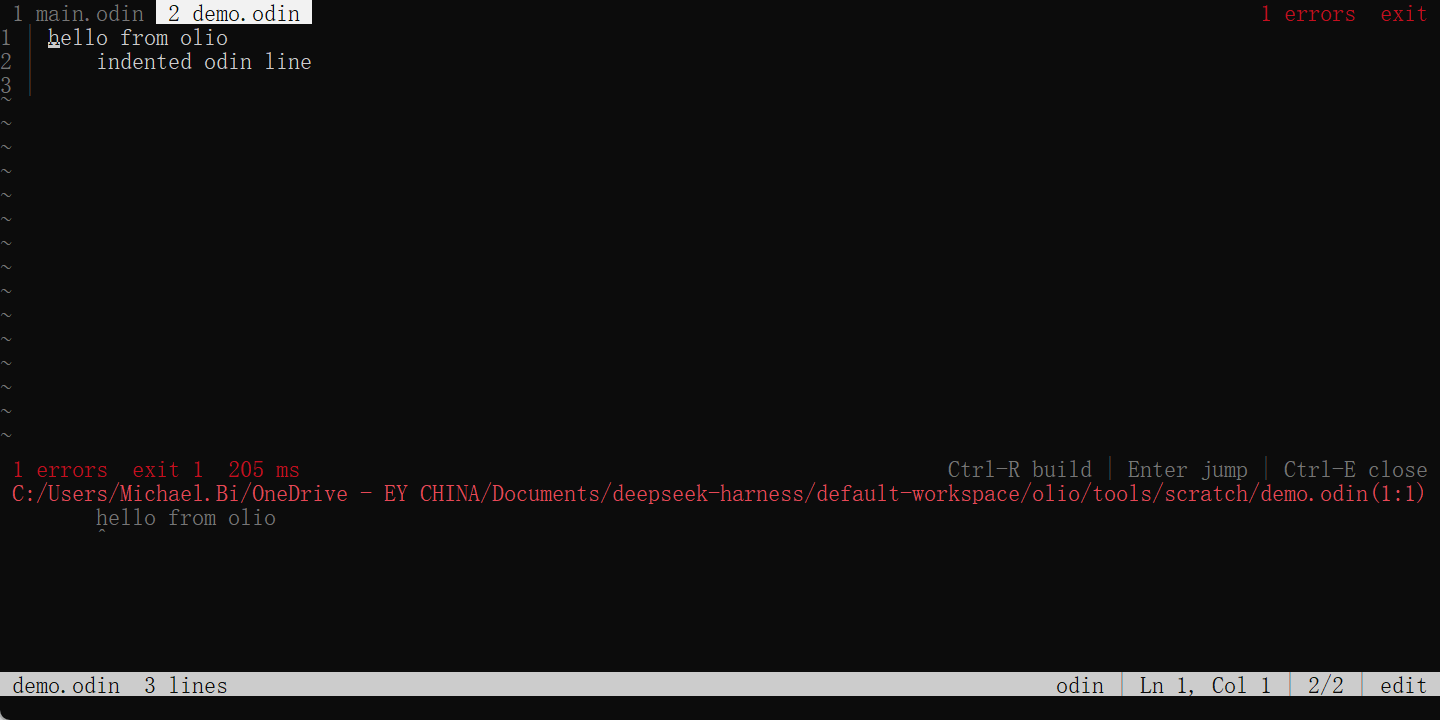
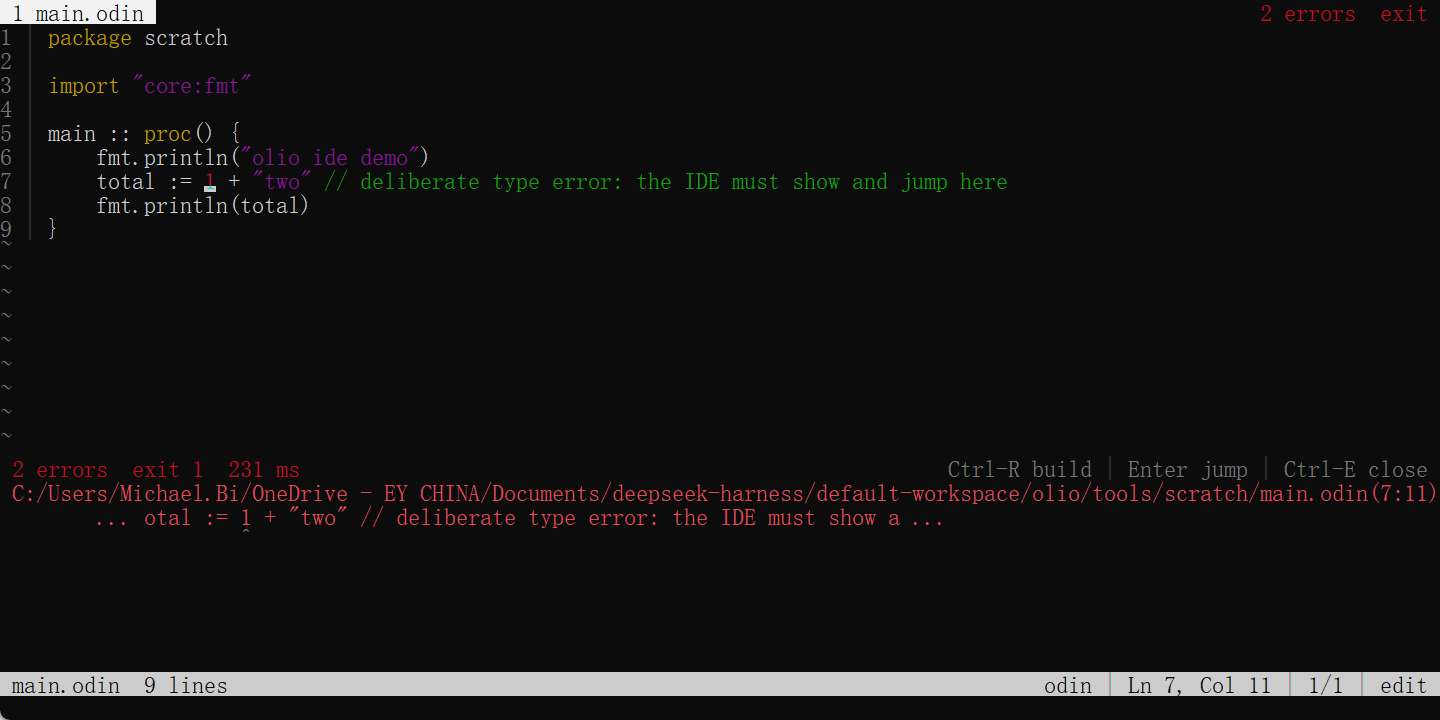
Fix quit counter reset, pluralise build status, harden the UI driver

diff --git a/tools/drive_ide.py b/tools/drive_ide.py
@@ -70,9 +70,9 @@ def tap(vk):
 def ctrl(ch):
     scan = u32.MapVirtualKeyW(VK_CONTROL, 0)
     u32.keybd_event(VK_CONTROL, scan, 0, 0)
-    time.sleep(0.05)
+    time.sleep(0.12)
     tap(ord(ch.upper()))
-    time.sleep(0.05)
+    time.sleep(0.12)
     u32.keybd_event(VK_CONTROL, scan, KEYUP, 0)
     time.sleep(0.15)
 
@@ -138,26 +138,38 @@ def main():
     LOG_PATH = os.path.join(outdir, "drive.log")
     open(LOG_PATH, "w").close()
 
-    before = set(console_windows())
-    p = subprocess.Popen([exe, target], cwd=workdir,
-                         creationflags=0x00000010, close_fds=True)
-    time.sleep(3.0)
-    new = [h for h in console_windows() if h not in before]
-    log("pid", p.pid, "alive", p.poll() is None, "windows", len(new))
-    if not new:
-        log("no console window")
-        p.terminate()
-        return
-    hwnd = new[0]
-
-    for _ in range(6):
-        u32.SetForegroundWindow(hwnd)
-        time.sleep(0.3)
-        if u32.GetForegroundWindow() == hwnd:
+    # Launch + steal focus, retrying: Windows only grants the foreground under
+    # rules we cannot always satisfy, and this is a throwaway demo window.
+    p = None
+    hwnd = None
+    for attempt in range(4):
+        before = set(console_windows())
+        argv = [exe] if target == "-" else [exe, target]
+        p = subprocess.Popen(argv, cwd=workdir,
+                             creationflags=0x00000010, close_fds=True)
+        time.sleep(3.0)
+        new = [h for h in console_windows() if h not in before]
+        log("attempt", attempt, "pid", p.pid, "alive", p.poll() is None,
+            "windows", len(new))
+        if not new:
+            p.terminate()
+            p = None
+            continue
+        hwnd = new[0]
+        for _ in range(4):
+            u32.SetForegroundWindow(hwnd)
+            time.sleep(0.3)
+            if u32.GetForegroundWindow() == hwnd:
+                break
+        if u32.GetForegroundWindow() == hwnd or focus_window(hwnd):
             break
-    if u32.GetForegroundWindow() != hwnd and not focus_window(hwnd):
-        log("ABORT: window not focused")
+        log("focus refused, retrying")
         p.terminate()
+        time.sleep(1.0)
+        p = None
+
+    if p is None or hwnd is None:
+        log("ABORT: could not get a focused window")
         return
     log("focused ok")
 
@@ -178,7 +190,7 @@ def main():
         tap(0x0D)  # enter jumps to the first diagnostic
         shot("jumped_to_error", 1.0)
         log("alive before quit:", p.poll() is None)
-        for _ in range(3):
+        for _ in range(4):
             ctrl("q")
             time.sleep(0.6)
         log("alive after quit:", p.poll() is None)
